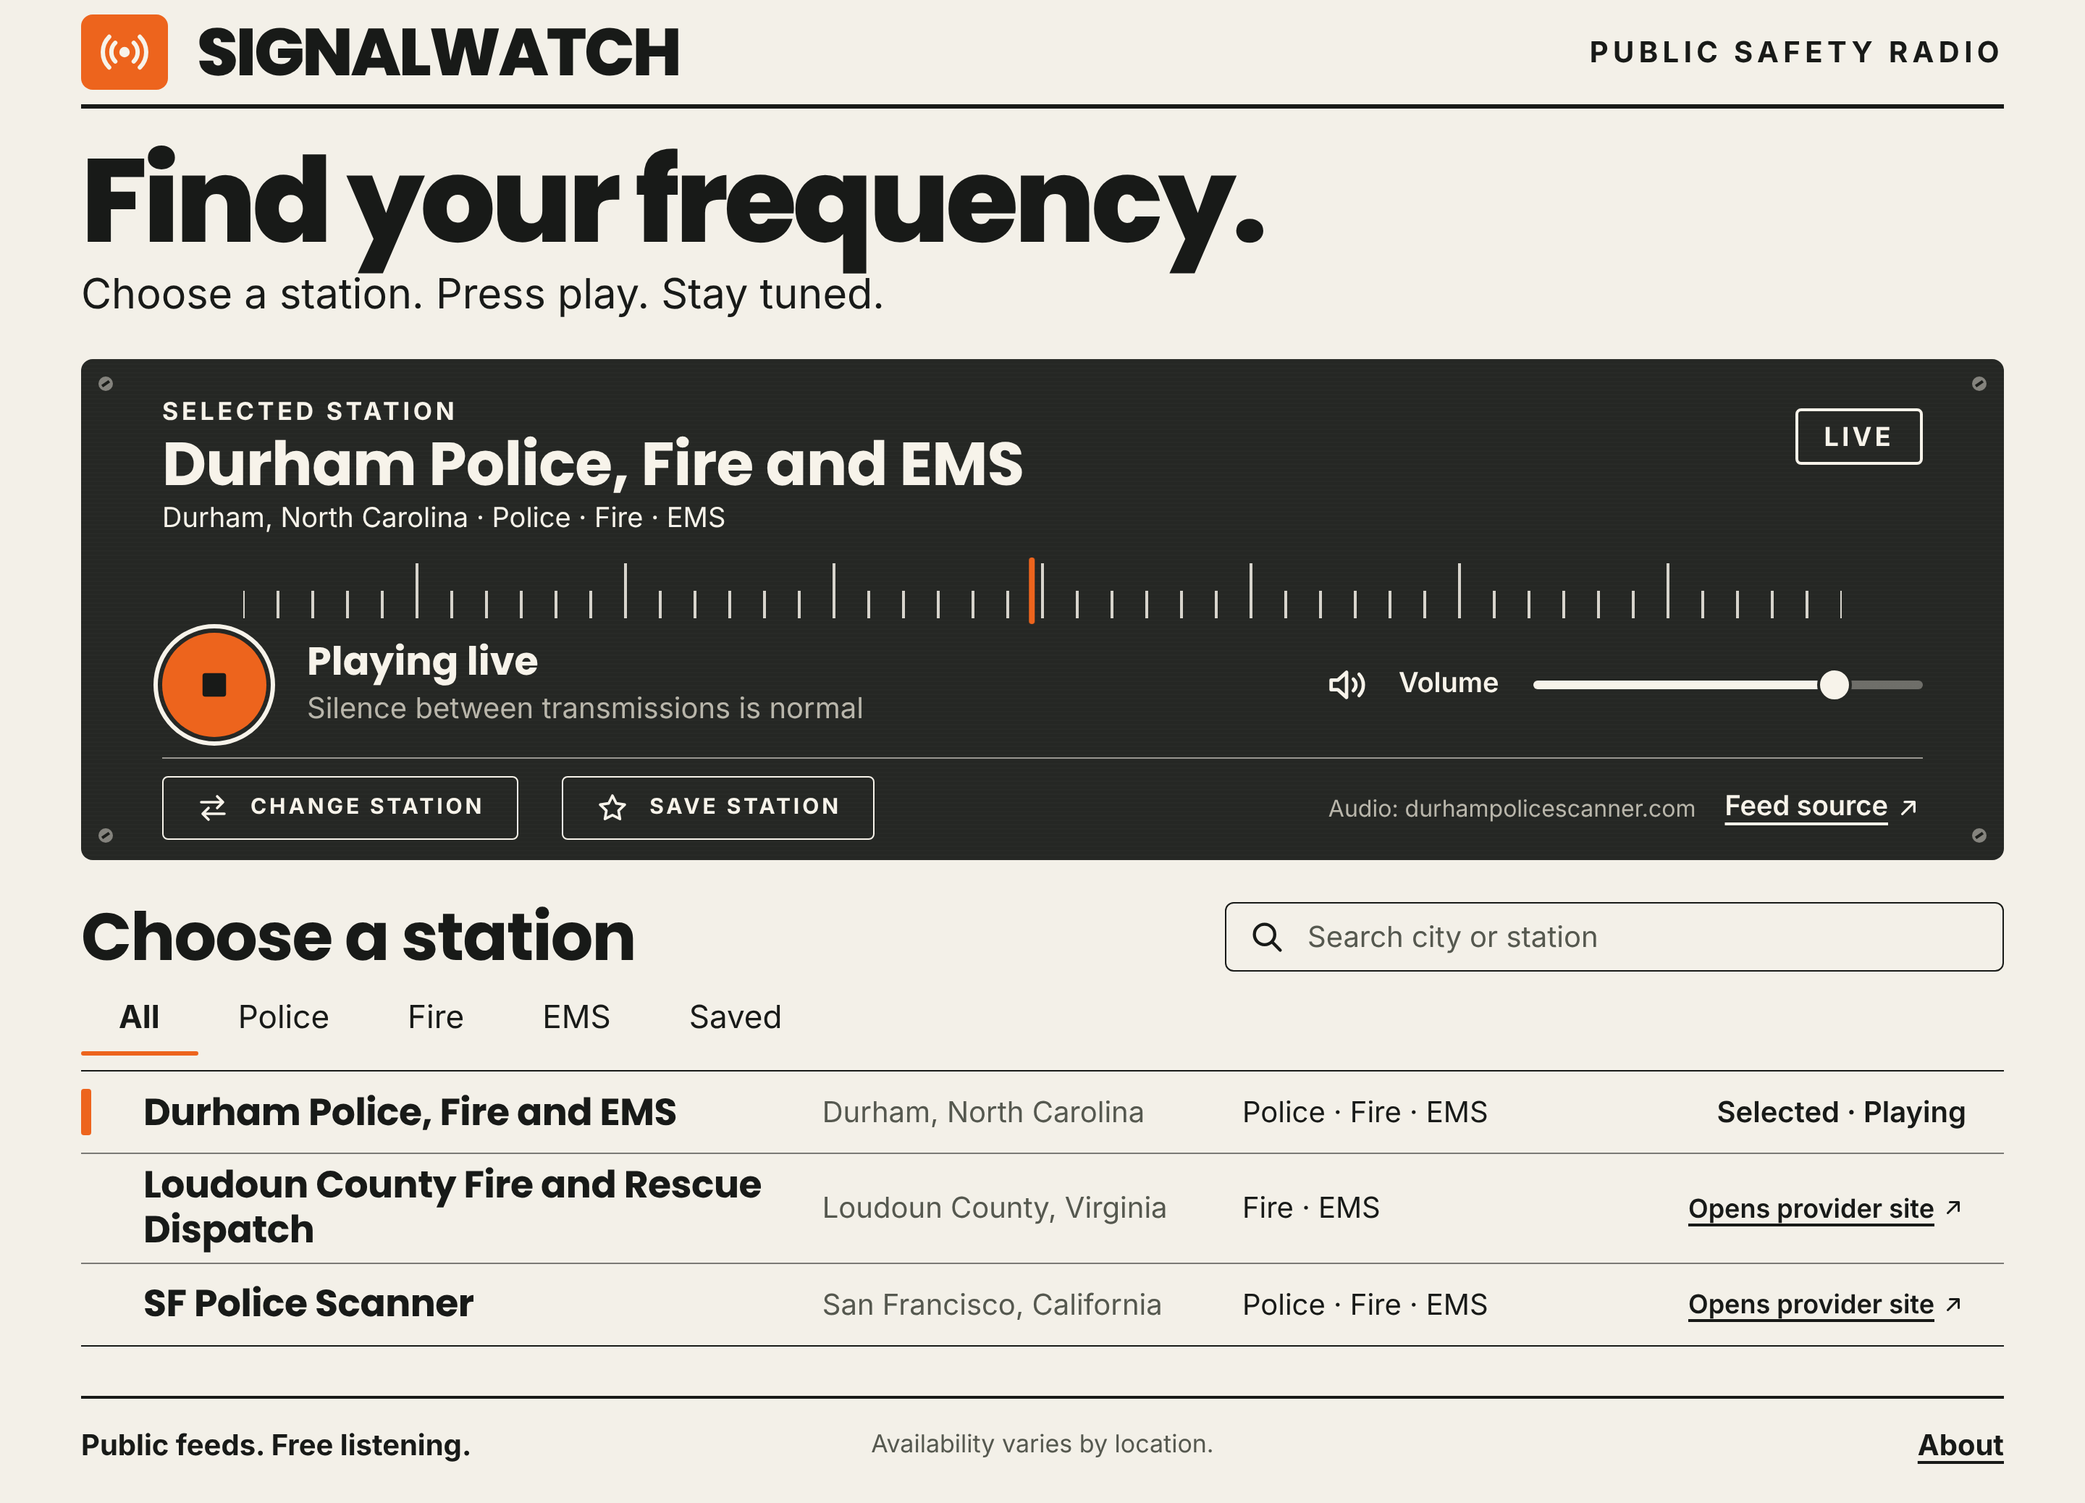
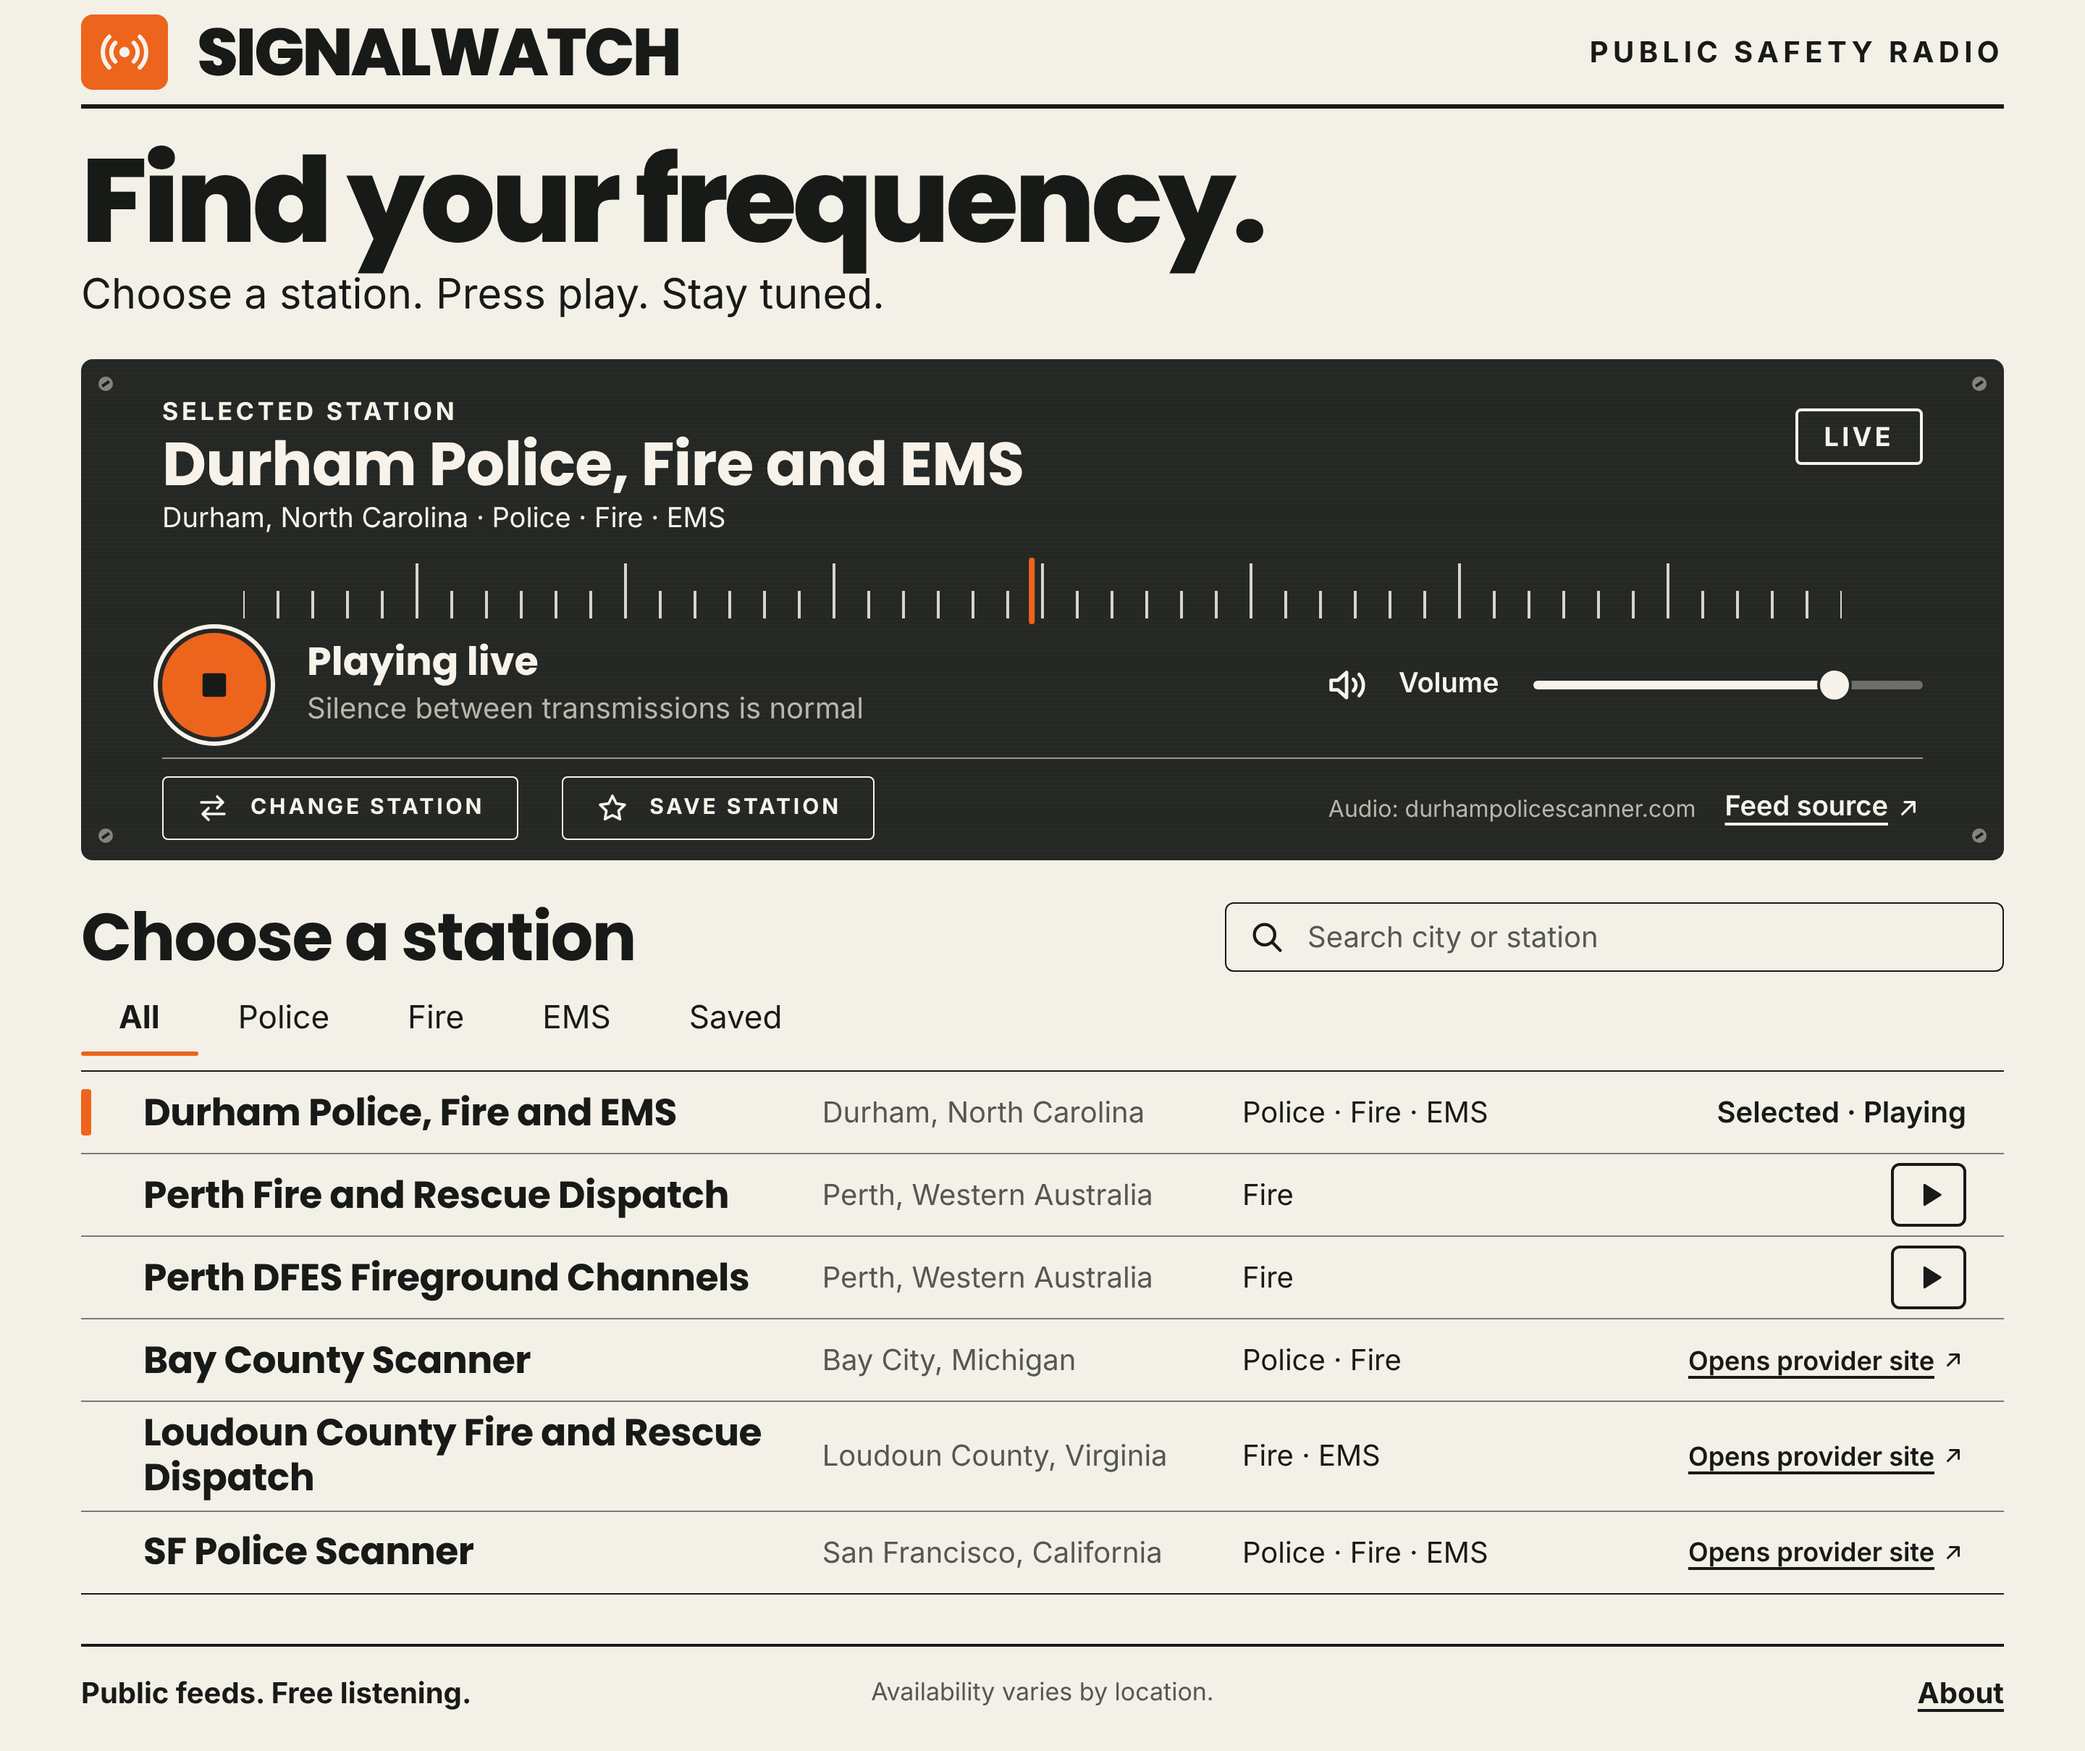
Add Perth fire streams and Bay County link-out; document Radio Browser check
Claude-Session: https://claude.ai/code/session_018An2PBsUcy3J2Zjq1mtZi3

diff --git a/src/data/feeds.ts b/src/data/feeds.ts
@@ -16,6 +16,22 @@ export const PROVIDERS: Provider[] = [
     attribution: 'Audio: durhampolicescanner.com',
   },
   {
+    id: 'warsug',
+    name: 'WA Radio Scanner Users’ Group',
+    homepage: 'https://warsug.info/viewtopic.php?f=3&t=5454',
+    description:
+      'A volunteer scanner hobbyist group in Western Australia. Its forum administrator runs the streams and publishes their addresses for listening.',
+    attribution: 'Audio: WARSUG (warsug.info)',
+  },
+  {
+    id: 'bay-county-scanner',
+    name: 'Bay County Scanner Feed',
+    homepage: 'https://www.baycountyscanner.org/',
+    description:
+      'An independently operated scanner feed for Bay City and Bay County, Michigan, online since 2005. Its terms ask for permission before its live audio is reused, so SIGNALWATCH sends you to its own player.',
+    attribution: 'Feed: baycountyscanner.org',
+  },
+  {
     id: 'loudoun-county-ecc',
     name: 'Loudoun County Emergency Communications Center',
     homepage: 'https://www.loudoun.gov/724/Radio-Dispatch-Webcast',
@@ -52,6 +68,50 @@ export const FEEDS: Feed[] = [
     delayNote: null,
     coverageNote:
       'Public safety and operations talkgroups on the Durham County trunked P25 radio system: police, fire, EMS dispatch and other municipal functions.',
+    availability: { status: 'unknown', checkedAt: null },
+  },
+  {
+    id: 'perth-wa-fire-dispatch',
+    providerId: 'warsug',
+    name: 'Perth Fire and Rescue Dispatch',
+    city: 'Perth',
+    region: 'Western Australia',
+    country: 'AU',
+    services: ['fire'],
+    sourceUrl: 'https://warsug.info/viewtopic.php?f=3&t=5454',
+    playback: { method: 'direct', url: 'https://stream.warsug.info/WARSUG', mimeType: 'audio/mpeg' },
+    delayNote: null,
+    coverageNote:
+      'The Department of Fire and Emergency Services metro network control channel: fire and rescue and SES turnouts for Perth and the greater south-west.',
+    availability: { status: 'unknown', checkedAt: null },
+  },
+  {
+    id: 'perth-wa-dfes-fireground',
+    providerId: 'warsug',
+    name: 'Perth DFES Fireground Channels',
+    city: 'Perth',
+    region: 'Western Australia',
+    country: 'AU',
+    services: ['fire'],
+    sourceUrl: 'https://warsug.info/viewtopic.php?f=3&t=5454',
+    playback: { method: 'direct', url: 'https://stream.warsug.info/DFES', mimeType: 'audio/mpeg' },
+    delayNote: null,
+    coverageNote:
+      'Department of Fire and Emergency Services repeater and simplex channels in the Perth metropolitan area, UHF on the right channel and VHF on the left. Simplex channels can be noisy.',
+    availability: { status: 'unknown', checkedAt: null },
+  },
+  {
+    id: 'bay-county-mi-public-safety',
+    providerId: 'bay-county-scanner',
+    name: 'Bay County Scanner',
+    city: 'Bay City',
+    region: 'Michigan',
+    country: 'US',
+    services: ['police', 'fire'],
+    sourceUrl: 'https://www.baycountyscanner.org/',
+    playback: { method: 'external', url: 'https://www.baycountyscanner.org/' },
+    delayNote: null,
+    coverageNote: 'Local public safety communications for Bay City and Bay County, Michigan.',
     availability: { status: 'unknown', checkedAt: null },
   },
   {

diff --git a/docs/PROVIDERS.md b/docs/PROVIDERS.md
@@ -25,6 +25,34 @@ The rule for the directory: a feed plays inside SIGNALWATCH only when its operat
 
 SIGNALWATCH does not use the site's "who's talking" WebSocket (`status.durhampolicescanner.com`); nothing on the page offers it for outside use.
 
+### WA Radio Scanner Users' Group (WARSUG) — plays in SIGNALWATCH
+
+| | |
+|---|---|
+| Provider | Volunteer scanner hobbyist group, Western Australia. Streams run by the forum administrator (Gavin Rogers, VK6HGR). |
+| Stations | Perth Fire and Rescue Dispatch (`https://stream.warsug.info/WARSUG`); Perth DFES Fireground Channels (`https://stream.warsug.info/DFES`) |
+| Coverage | Department of Fire and Emergency Services (DFES), Perth. Dispatch: "Metro Network Control Channel (6AR/6IP) for Fire and Rescue. All fire & rescue and SES turnouts in the metro and greater south-west are on this channel." Fireground: "major Department of Fire and Emergency Services repeater and simplex channels in the Perth metropolitan area". Fire only; no police. |
+| Source page | https://warsug.info/viewtopic.php?f=3&t=5454 |
+| Playback | Direct, native audio element, MP3 over HTTPS |
+| Basis for integration | The operator's post gives each address under "To listen :" and adds playlist addresses "for older software", and notes the streams are also mirrored to Broadcastify and usable in mobile apps. SIGNALWATCH uses the operator's own addresses, not the Broadcastify mirror. |
+| Attribution | None stated. SIGNALWATCH credits "Audio: WARSUG (warsug.info)" and links the source post. |
+| Restrictions | None stated. No credentials or payment. The operator accepts donations for site and stream costs. |
+| Delay | None documented. |
+
+**Open item before a public launch:** same as Durham. The addresses are published for listeners' own players; a third-party website is not mentioned. Ask through the forum before promoting the site.
+
+### Bay County Scanner Feed — link to the operator's player
+
+| | |
+|---|---|
+| Provider | Independently operated since 2005; "not affiliated with, endorsed by, or operated by any police department, fire department, emergency service, or government agency" |
+| Coverage | Local public safety communications, Bay City and Bay County, Michigan |
+| Source page | https://www.baycountyscanner.org/ |
+| Playback | External link only |
+| Why not in-app | Terms of Use (last updated 2026-11-09), section 2: "Permission to share website content does not automatically grant permission to reproduce, redistribute, rebroadcast, sell, or commercially exploit our live audio feed or archived scanner recordings. If you have a question about using or reproducing any of our material, please contact us before doing so." Its stream is technically reachable over HTTPS with open CORS, but that is not permission. |
+
+To play it in-app, ask through https://www.baycountyscanner.org/contact.
+
 ### Loudoun County Emergency Communications Center — link to the county's player
 
 | | |
@@ -58,6 +86,8 @@ To play it in-app, get written permission from SomaFM (https://somafm.com/contac
 | Broadcastify | Its site refuses automated access, so its terms could not be read first-hand from this build environment. Its help centre (as returned by web search) says public redistribution of live audio is prohibited under the developer programme terms (§4.B), that programme access needs an application and review at https://bcfy.io/dev/apply/, and that a broad public scanner product needs an enterprise licence. A feed-provider forum post reports the embeddable player was retired. Not integrated. |
 | OpenMHz | Site refuses automated access; no published terms for third-party players were found. Carries recorded calls, not a continuous stream. |
 | 916scanner.com, ScanCBUS | Proprietary web apps with accounts or paid plans; no stream published for outside players. |
+| Radio Browser (radio-browser.info) | Free community directory with an open API. Checked 2026-11-12: 157 entries matched scanner, police, fire, EMS and dispatch searches; about five were real scanner feeds and the rest were music stations. A listing there is not permission, so each operator was vetted separately (WARSUG and Bay County above). Not a bulk source. |
+| ScanBC (scanbc.com) | Streams play only through its own web app; no terms or stream addresses are published for outside players. |
 | CrimeIsDown.com | All rights reserved; distributes through YouTube, OpenMHz and Broadcastify. |
 | Pottawattamie County Sheriff (Iowa) | Official streams exist, but the page refused access from the build environment and could not be reviewed. |
 
@@ -79,4 +109,4 @@ This is the route to a large directory. It needs things only the site owner can 
 ## Verification record
 
 2026-11-12, headless Chromium, stream `https://stream.durhampolicescanner.com/`:
-response `content-type: audio/mp3`; the audio element fired `playing` 6.9 s after connecting; `currentTime` advanced 19.98 s over a 20 s sample; decoded samples through a Web Audio analyser had peak amplitude 0.24 with 59.8% of samples above the noise floor. This is machine evidence of decoded, non-silent audio. Nobody listened to it by ear in the build environment.
+response `content-type: audio/mp3`; the audio element fired `playing` 6.9 s after connecting; `currentTime` advanced 19.98 s over a 20 s sample; decoded samples through a Web Audio analyser had peak amplitude 0.24 with 59.8% of samples above the noise floor. Both WARSUG streams fired `playing` within 3.2 s and advanced 9.95 s over a 10 s sample. This is machine evidence of decoded audio (non-silent, in Durham's case). Nobody listened to it by ear in the build environment.
